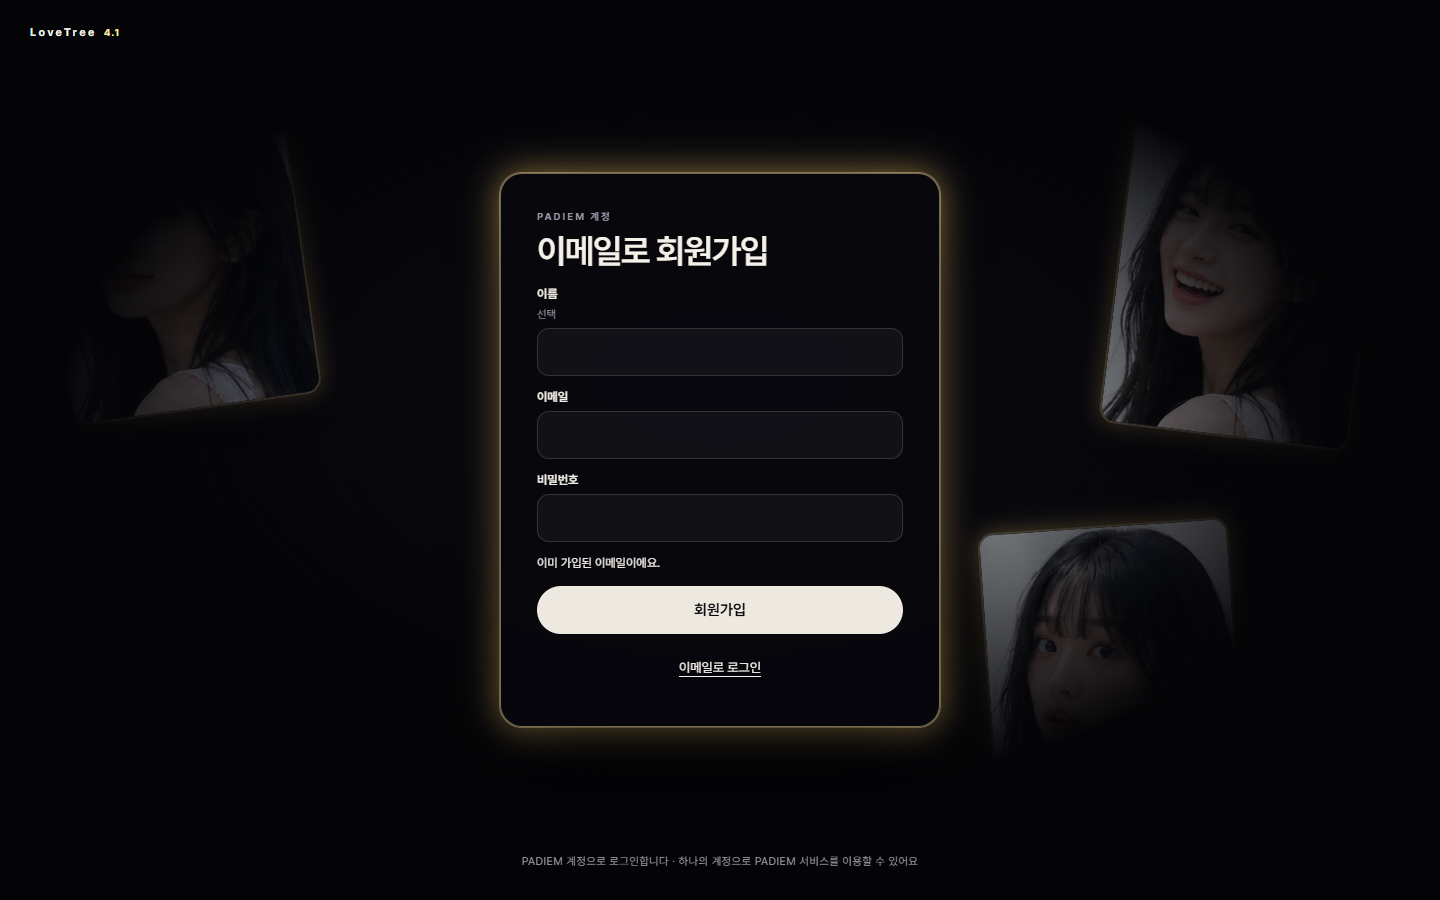
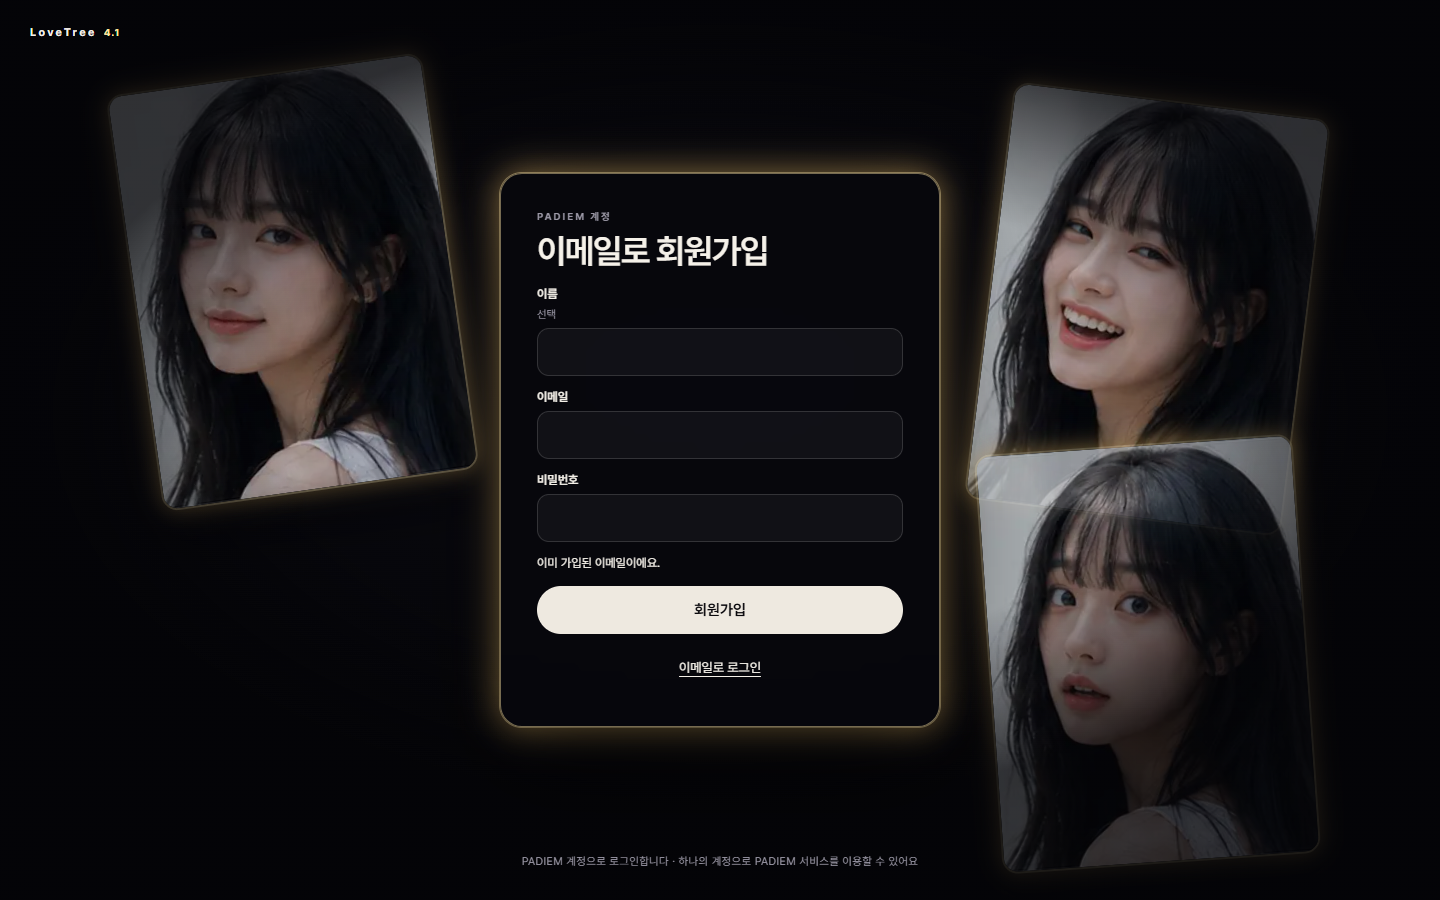
docs(auth-skin): #347 배경 사진 크게·밝게 — 중 기본·강 변형, 카드 유지 (#363)

Changed region(s): [[0.6562, 0.0933, 0.9062, 0.9644], [0.0625, 0.0622, 0.3438, 0.5911], [0.8438, 0.1244, 0.9375, 0.2489]]

diff --git a/docs/design/auth-skin/auth-skin.css b/docs/design/auth-skin/auth-skin.css
@@ -53,6 +53,14 @@
   --lt-r-card: 14px;
   --lt-garden-edge: #eee3d5;
   --lt-garden-shadow: 0 18px 40px rgba(75, 51, 42, .16);
+  /* #347 궤도 사진(중): 크게·밝게, 가장자리 어둡게는 넓고 옅게. 강은 body.orbit-strong. */
+  --orbit-size: clamp(220px, 30vw, 420px);
+  --orbit-alpha: .8;
+  --orbit-haze-clear: 50%;
+  --orbit-haze-end: 78%;
+  --orbit-haze-alpha: 72%;
+  --orbit-gap: 48px;
+  --orbit-card-half: 220px;
   /* Google Identity "Sign in with Google" 어두운 테마(가이드라인 고정값) */
   --lt-google-fill: #131314;
   --lt-google-stroke: #8e918f;
@@ -70,6 +78,7 @@ body.garden {
   --lt-gold-ink: #8a4b57;
   --lt-gold-line: rgba(152, 80, 94, .38);
   --lt-gold-glow: rgba(200, 110, 121, .32);
+  --orbit-alpha: .7;
   --lt-rose: #c86e79;
   --lt-rose-ink: #98505e;
   --lt-paper: #fffdf8;
@@ -85,6 +94,17 @@ body.garden {
   --lt-google-font: #1f1f1f;
   color-scheme: light;
 }
+
+/* #347 강 변형: 사진은 더 크게·더 밝게, 가장자리 어둡게는 더 넓고 더 옅게. 기본(중)은 body 클래스 없음. */
+body.orbit-strong {
+  --orbit-size: clamp(240px, 33vw, 460px);
+  --orbit-alpha: .9;
+  --orbit-haze-clear: 58%;
+  --orbit-haze-end: 72%;
+  --orbit-haze-alpha: 62%;
+  --orbit-gap: 48px;
+}
+body.garden.orbit-strong { --orbit-alpha: .8; }
 
 * { box-sizing: border-box; }
 html, body { min-height: 100%; }
@@ -116,27 +136,26 @@ button, a, input { -webkit-tap-highlight-color: transparent; }
   content: '';
   position: absolute;
   inset: 0;
-  background: radial-gradient(ellipse 56% 52% at 50% 46%, transparent 0 42%, var(--lt-stage) 82%);
+  background: radial-gradient(ellipse 60% 56% at 50% 46%, transparent 0 var(--orbit-haze-clear), color-mix(in srgb, var(--lt-stage) var(--orbit-haze-alpha), transparent) var(--orbit-haze-end));
   pointer-events: none;
 }
 
 .orbit {
   position: absolute;
   z-index: 0;
-  height: clamp(190px, 27vw, 330px);
-  width: calc(clamp(190px, 27vw, 330px) * .76);
+  height: var(--orbit-size);
+  width: calc(var(--orbit-size) * .76);
   object-fit: cover;
   border: 2px solid var(--lt-gold-line);
   border-radius: 16px;
   box-shadow: 0 24px 60px rgba(0, 0, 0, .46), 0 0 22px var(--lt-gold-glow);
-  opacity: .58;
+  opacity: var(--orbit-alpha);
   pointer-events: none;
 }
-.o1 { left: 3.5%; top: 9%; transform: rotate(-8deg); }
-.o2 { right: 5%; top: 12%; transform: rotate(7deg); }
-.o3 { right: 14%; bottom: 5%; transform: rotate(-4deg); }
+.o1 { left: calc(50% - var(--orbit-card-half) - var(--orbit-gap) - var(--orbit-size) * .76); top: 8%; transform: rotate(-8deg); }
+.o2 { left: calc(50% + var(--orbit-card-half) + var(--orbit-gap)); top: 11%; transform: rotate(7deg); }
+.o3 { left: calc(50% + var(--orbit-card-half) + var(--orbit-gap)); bottom: 4%; transform: rotate(-4deg); }
 body.garden .orbit {
-  opacity: .48;
   box-shadow: 0 18px 40px rgba(75, 51, 42, .16), 0 0 18px var(--lt-gold-glow);
 }
 
@@ -351,11 +370,12 @@ body.garden .alt-link { color: var(--lt-ink); }
 
 @media (max-width: 680px) {
   .stage { padding: 72px 16px 30px; place-items: start center; }
+  .stage::after { background: radial-gradient(ellipse 56% 52% at 50% 46%, transparent 0 42%, var(--lt-stage) 82%); }
   .brand { left: 18px; top: 16px; }
   .orbit { width: 128px; height: 168px; opacity: .34; }
   .o1 { left: -26px; top: 6%; }
-  .o2 { right: -28px; top: 9%; }
-  .o3 { right: 8%; bottom: 2%; width: 104px; height: 137px; }
+  .o2 { left: auto; right: -28px; top: 9%; }
+  .o3 { left: auto; right: 8%; bottom: 2%; width: 104px; height: 137px; }
   .auth-card { width: 100%; padding: 25px 22px; border-radius: 18px; }
   .foot { position: static; transform: none; width: auto; max-width: none; margin-top: 20px; text-align: center; }
   .divider { margin-top: 16px; }
